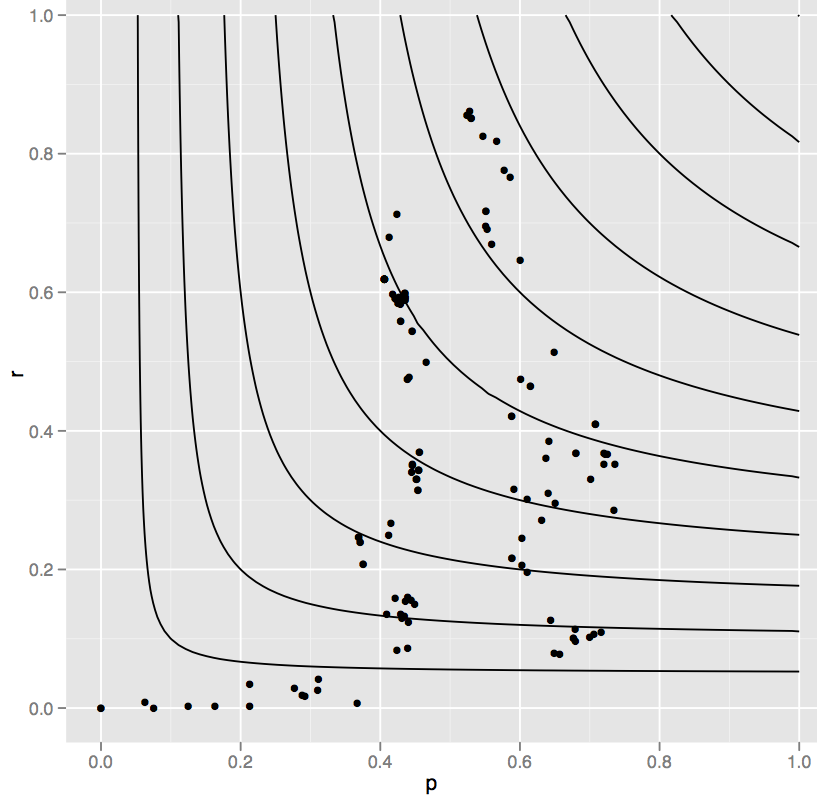
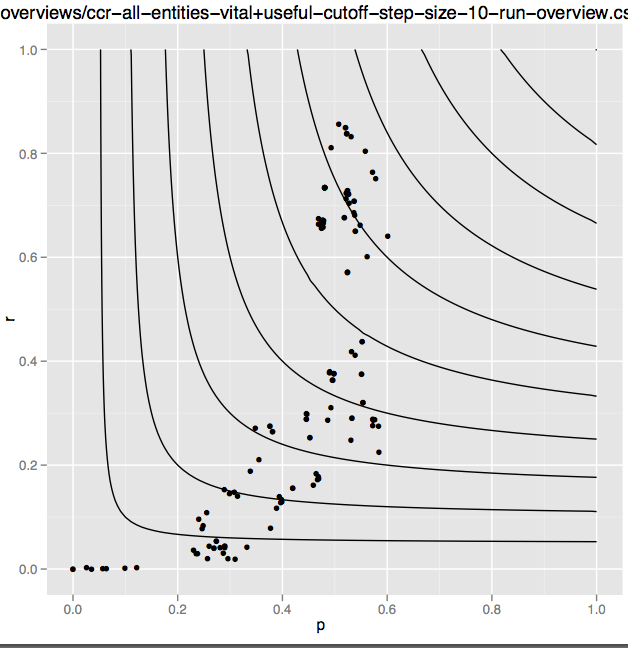
updating plots an stats

diff --git a/README.md b/README.md
@@ -20,10 +20,10 @@ The primary evaluation metric is for "vital" documents in the [Cumulative Citati
 
 |vital-only|(1)       |(2)    | 
 |---------:|:---------|:------|
-|max	   |0.339     | 0.307 |
-|median	   |0.203     | 0.207 |
-|mean	   |0.184     | 0.214 |
-|min	   |0	      | 0     |
+|max	   |0.311     | 0.277 |
+|median	   |0.174     | 0.255 |
+|mean	   |0.166     | 0.137 |
+|min	   |0	      | 0.129 |
 
 <img src="plots/TREC-KBA-2013-CCR-vital-P-R-F-scatter-plot.png?raw=true" alt="TREC-KBA-2013-CCR-vital-P-R-F-scatter-plot" style="width: 400px; height: 400px;" height="400px" width="400px" />
 
@@ -31,10 +31,10 @@ The hardest part of CCR is distinguishing between documents that are merely "use
 
 |vital+useful|(1)     |(2)   |
 |---------:|:---------|:-----|
-|max	   |0.669     |0.575 |
-|median	   |0.456     |0.398 |
-|mean	   |0.385     |0.392 |
-|min	   |0	      |0.171 |
+|max	   |0.659     |0.570 |
+|median	   |0.406     |0.423 |
+|mean	   |0.376     |0.425 |
+|min	   |0	      |0.317 |
 
 <img src="plots/TREC-KBA-2013-CCR-vital+useful-P-R-F-scatter-plot.png?raw=true" alt="TREC-KBA-2013-CCR-vital+useful-P-R-F-scatter-plot" style="width: 400px; height: 400px;" height="400px" width="400px" />
 
@@ -43,9 +43,9 @@ For KBA 2013, we piloted a new task that requires systems to identify phrases in
 
 |SSF-DOCS|(1)     |(2)   |
 |---------:|:---------|:-----|
-|max	   |0.103     |0.333 |
-|median	   |0.007     |0.299 |
-|mean	   |0.028     |0.231 |
+|max	   |0.100     |0.333 |
+|median	   |0.005     |0.323 |
+|mean	   |0.026     |0.242 |
 |min	   |0	      |0.012 |
 
 <img src="plots/TREC-KBA-2013-SSF-DOCS-P-R-F-scatter-plot.png?raw=true" alt="TREC-KBA-2013-SSF-DOCS-P-R-F-scatter-plot" style="width: 400px; height: 400px;" height="400px" width="400px" />
@@ -55,10 +55,10 @@ The second of four stages in SSF diagostics considers *only* a run's true positi
 
 |SSF-OVERLAP|(1)     |(2)   |
 |---------:|:---------|:-----|
-|max	   |0.672     |0.670 |
-|median	   |0.095     |0.356 |
-|mean	   |0.174     |0.299 |
-|min	   |0	      |0     |
+|max	   |0.657     |0.663 |
+|median	   |0.005     |0.334 |
+|mean	   |0.101     |0.370 |
+|min	   |0	      |0.333 |
 
 <img src="plots/TREC-KBA-2013-SSF-OVERLAP-P-R-F-scatter-plot.png?raw=true" alt="TREC-KBA-2013-SSF-OVERLAP-P-R-F-scatter-plot" style="width: 400px; height: 400px;" height="400px" width="400px" />
 
@@ -66,10 +66,10 @@ The third of four stages in SSF diagostics considers *only* a run's true postivi
 
 |SSF-FILL|(1)     |(2)   |
 |---------:|:---------|:-----|
-|max	   |0.159     |0.359 |
-|median	   |0.0003    |0.311 |
-|mean	   |0.036     |0.231 |
-|min	   |0	      |0     |
+|max	   |0.155     |0.335 |
+|median	   |0.00005   |0.333 |
+|mean	   |0.026     |0.333 |
+|min	   |0	      |0.333 |
 
 <img src="plots/TREC-KBA-2013-SSF-FILL-P-R-F-scatter-plot.png?raw=true" alt="TREC-KBA-2013-SSF-FILL-P-R-F-scatter-plot" style="width: 400px; height: 400px;" height="400px" width="400px" />
 
@@ -77,9 +77,9 @@ The fourth of four stages in SSF diagnostics considers *only* a run's true posti
 
 |SSF-DATE_HOUR|(1)     |(2)   |
 |---------:|:---------|:-----|
-|max	   |0.720     |0.711 |
-|median	   |0.529     |0.469 |
-|mean	   |0.408     |0.390 |
+|max	   |0.682     |0.544 |
+|median	   |0.021     |0.021 |
+|mean	   |0.136     |0.113 |
 |min	   |0	      |0     |
 
 <img src="plots/TREC-KBA-2013-SSF-DATE_HOUR-P-R-F-scatter-plot.png?raw=true" alt="TREC-KBA-2013-SSF-DATE_HOUR-P-R-F-scatter-plot" style="width: 400px; height: 400px;" height="400px" width="400px" />
